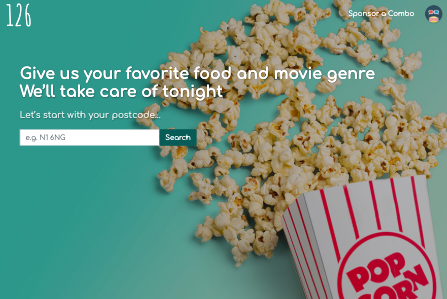
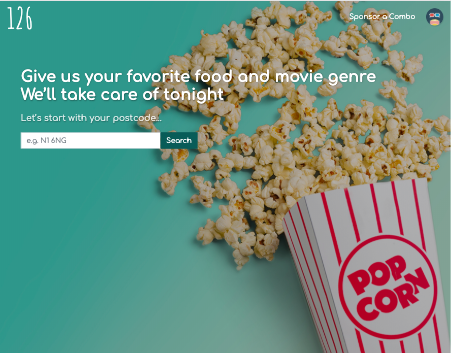
added stickyNavbar / typedit & completed about me text

diff --git a/index.html b/index.html
@@ -13,14 +13,14 @@
     <body>
       <div class="banner" style='height:100vh' id="top">
         <div class="content">
-          <div class="navbar d-flex justify-content-end align-items-center px-0 py-0 mr-5">
-            <a href="#about-me" class="nav-content">About Me</a>
+          <div class="navbar d-flex justify-content-end align-items-center px-0 py-0 mr-5 position-fixed" style="top:0vh; right:-1.5em">
             <a href="#project" class="nav-content">Projects</a>
             <a href="#contact" class="nav-content">Contact</a>
           </div>
           <div class="title ml-5 position-absolute" style="top:40vh">
             <div class="card-content">
-              <h1><span style="font-weight: bold;">Ellen Lee</span> | Full Stack Web Developer</h1>
+              <h1><span style="font-weight: bold;">Ellen Lee</span> | <span id="type_it"></span></h1>
+              <a href="#about-me"><button type="button" class="btn btn-dark mt-4" id="button">More About Me</button></a>
             </div>
           </div>
         </div>
@@ -30,10 +30,21 @@
         <a href="#top"><i class="fas fa-arrow-up"></i></a>
         <div class="container">
           <h3 class="text-center mb-5">About Me</h3>
-            <p>I am a passionate problem solver with commercial mindset and a strong interest in the world of start-ups / technology. After 3 years of marketing, commercial development and a Masters in Management degree from London Business School, I have decided to have a career change and have trained at Le Wagon in London to become a full-stack web developer.
+            <p style="color: #484b4c;">Hello, my name is <span style="font-weight: bold;">Ellen</span>. Welcome to my portfolio website!
             <br>
             <br>
-            Having lived in 6 countries in Asia and across Europe, I excel in fast-paced and multicultural environments and I aspire to continue an international career. </p>
+            I am a passionate problem solver with commercial mindset and a strong interest in the world of start-ups / technology. After 3 years of marketing, commercial development and a Masters in Management degree from London Business School, I have decided to have a career change and have trained at Le Wagon in London to become a full-stack web developer.
+            <br>
+            <br>
+            Having lived in 6 countries in Asia and across Europe, I excel in fast-paced and multicultural environments and I aspire to continue an international career. I speak fluent <span style="font-weight: bold;">English & Chinese Mandarin</span>.
+            <br>
+            <br>
+            I am currently looking for opportunities as junior full-stack developer in <span style="font-weight: bold;">London or Amsterdam</span>.
+            <br>In the meanwhile, I am also taking <span style="font-weight: bold;">freelance projects</span>.
+            <br>
+            <br>
+            Happy to connect to discuss any potential projects or job opportunities!</p>
+            <img src="images/ellenlee-03.png" alt="Ellen Lee brand logo" id="brand">
         </div>
       </div>
 
@@ -43,13 +54,25 @@
           <h3 class="text-center mb-5">Projects</h3>
           <div class="row">
             <div class="col-sm-12 col-md-6 col-lg-4">
-              <div class="project-card">
-                <h4 id="show">Mr.Cocktail</h4>
+              <div class="project-card mb-5" style="background-image: url('images/cocktail.png')">
+                <div class="show-content" id="show">
+                  <h4>Mister.Cocktail</h4>
+                  <p>A Cocktail listing and creation web app.
+                  <br>
+                  Built with <span style="font-weight: bold;">Ruby on Rails, Javascript, HTML & CSS</span>.</p>
+                  <a href="https://ellen-mister-cocktail.herokuapp.com/" target="_blank">Learn more</a>
+                </div>
               </div>
             </div>
             <div class="col-sm-12 col-md-6 col-lg-4">
-              <div class="project-card">
-                <h4 id="show">Limelite</h4>
+              <div class="project-card mb-5" style="background-image: url('images/limelite.png')">
+                <div class="show-content" id="show">
+                  <h4>Limelite</h4>
+                  <p>An airbnb like web app for booking and hosting unique screening.
+                  <br>
+                  Built with <span style="font-weight: bold;">Ruby on Rails & Javascript</span>.</p>
+                  <a href="https://cinema-airbnb-clone.herokuapp.com/" target="_blank">Learn more</a>
+                </div>
               </div>
             </div>
             <div class="col-sm-12 col-md-6 col-lg-4">
@@ -59,6 +82,7 @@
                   <p>A Netflix/Deliveroo combo generator that gives you a stress free weekend night.
                   <br>
                   Built with <span style="font-weight: bold;">Ruby on Rails, Javascript, AJAX, Bootstrap, API integration & HTML scraping</span>.</p>
+                  <a href="http://www.onetwosix.co.uk" target="_blank">Learn more</a>
                 </div>
               </div>
             </div>
@@ -66,34 +90,45 @@
         </div>
       </div>
 
-      <div class="box-content" id="contact">
+      <div class="box-content" style="background-color: #ede6e6" id="contact">
         <a href="#top"><i class="fas fa-arrow-up"></i></a>
         <div class="content_center">
-          <h3 class="text-center mb-5">Get in Touch</h3>
+          <h3 class="text-center">Get in Touch</h3>
+          <p class="mb-5 text-center" style="color: #484b4c;">Feel free to reach me on any of the following:</p>
           <div class="container">
             <div class="contact-link d-flex justify-content-space-between">
-              <a href="#" target="_blank"><i class="fab fa-github"></i></a>
-              <a href="#" target="_blank"><i class="fab fa-facebook"></i></a>
+              <a href="https://github.com/elleelee" target="_blank"><i class="fab fa-github"></i></a>
+              <a href="mailto:ellen811003@gmail.com" target="_blank"><i class="fas fa-envelope-square"></i></a>
               <a href="https://www.linkedin.com/in/ellenleelbs/" target="_blank"><i class="fab fa-linkedin"></i></a>
             </div>
           </div>
         </div>
       </div>
       <div class="footer">
-        <p>This website was created by Ellen Lee</p>
+        <p>Copyright © 2019 Ellen Lee, London, UK.</p>
       </div>
 
       <script src="three.r92.min.js"></script>
       <script src="vanta.fog.min.js"></script>
       <script>
-      VANTA.FOG({
-        el: ".banner",
-        highlightColor: 0xdccc99,
-        midtoneColor: 0x35a4f2,
-        lowlightColor: 0x1d385f,
-        baseColor: 0xfcdddd,
-        speed: 1.50
-      })
+        VANTA.FOG({
+          el: ".banner",
+          highlightColor: 0xdccc99,
+          midtoneColor: 0x35a4f2,
+          lowlightColor: 0x1d385f,
+          baseColor: 0xfcdddd,
+          speed: 1.50
+        })
       </script>
+      <script src="https://cdn.jsdelivr.net/npm/typeit@6/dist/typeit.min.js" />
+      <script src="typeit.min.js"></script>
+      <script>
+        new TypeIt('#type_it', {
+          strings: "Full Stack Web Developer",
+          speed: 50,
+          waitUntilVisible: true,
+        }).go();
+      </script>
+      <script src="stickyNavbar.js"></script>
     </body>
 </html>

diff --git a/css/style.css b/css/style.css
@@ -9,29 +9,28 @@ html, body {
 
 #project {
   background-color: #FAFAFA;
-  height: 70vh;
+  height: 75vh;
 }
 
 #about-me {
-  height: 70vh;
+  height: 75vh;
 }
 
 #contact {
-  height: 50vh;
+  height: 40vh;
 }
 
 .nav-content {
   padding: 10px 16px;
-  color: white;
+  color: black;
   font-size: 1.2em;
-  margin: 16px;
+  margin: 16px 8px;
   opacity: 0.8;
 }
 
 .nav-content:hover {
   text-decoration: none;
-  color: white;
-  opacity: 1;
+  color: black;
   font-weight: bold;
 }
 
@@ -51,6 +50,29 @@ html, body {
   opacity: 0.7;
 }
 
+.fa-arrow-up:hover {
+  opacity: 1;
+}
+
+#button {
+  background-color: transparent !important;
+  color: black !important;
+  border-radius: 2px !important;
+}
+
+#button:hover {
+  background-color: black !important;
+  opacity: 0.8 !important;
+  color: white !important;
+}
+
+#brand {
+  margin-top: 2.0em;
+  height: 12vh;
+  position: absolute;
+  bottom: 5em;
+  right: 13em;
+}
 
 
 

diff --git a/css/components/card.css b/css/components/card.css
@@ -1,12 +1,12 @@
 .project-card {
   background-position: center;
   background-size: cover;
-  box-shadow: 1px 2px 4px rgba(0,0,0,0.2);
   height: 40vh;
   display: flex;
   align-items: center;
   justify-content: center;
   padding: 15px;
+  margin: 0 10px;
 }
 
 .project-card h4 {
@@ -27,10 +27,26 @@
   opacity: 1;
   background-color: #fff;
   background-image: none !important;
+  box-shadow: 5px 6px 10px rgba(0,0,0,0.2);
 }
 
 .project-card:hover > #show {
   opacity: 1;
+}
+
+.show-content a {
+  color: black;
+  display: block;
+  margin: 0 auto;
+}
+
+.show-content a:hover {
+  text-decoration: none;
+  font-weight: bold;
+}
+
+.card-content a {
+  display: block;
 }
 
 

diff --git a/stickyNavbar.js b/stickyNavbar.js
@@ -1,0 +1,19 @@
+// Get the navbar
+const navbar = document.querySelector(".navbar");
+
+// Add the sticky class to the navbar when you reach its scroll position. Remove "sticky" when you leave the scroll position
+const stickyNavbar = () => {
+  if (navbar) {
+    document.addEventListener('scroll', () => {
+      console.log(window.scrollY);
+      if (window.scrollY >= 680) {
+        navbar.classList.remove("position-fixed");
+      }
+      if (window.scrollY <= 680) {
+        navbar.classList.add("position-fixed");
+      }
+    });
+  };
+};
+
+stickyNavbar();
